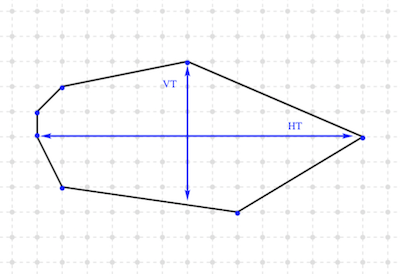
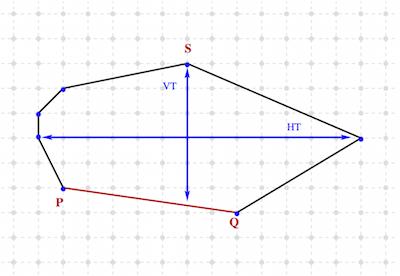
access to antipodal leaning points with test

diff --git a/tests/geometry/curves/testAlphaThickSegmentComputer.cpp b/tests/geometry/curves/testAlphaThickSegmentComputer.cpp
@@ -131,14 +131,35 @@ bool testAlphaThickSegmentConvexHullAndBox()
     " ( should be " << *(aContour.begin())<<  ")" << std::endl;
   trace.info() << "Second extremity point: " << anAlphaThickSegmentComputer.getExtremityPoints().second << 
     " ( should be (80, 18) )" << std::endl;
-
+  
   res = anAlphaThickSegmentComputer.getExtremityPoints().first == *(aContour.begin())&&
         anAlphaThickSegmentComputer.getExtremityPoints().second == Z2i::Point(80,18);
   nbok += res ? 1 : 0; 
   nb++;
   trace.info() << "(" << nbok << "/" << nb << ") " << std::endl;
   trace.endBlock();
+
+
+  trace.beginBlock("Testing access to anti podal points");
+  std::pair<std::pair<Z2i::Point, Z2i::Point>, 
+            Z2i::Point> pairAntipodal =  anAlphaThickSegmentComputer.getAntipodalLeaningPoints();
   
+  Z2i::Point p = pairAntipodal.first.first; 
+  Z2i::Point q = pairAntipodal.first.second; 
+  Z2i::Point s = pairAntipodal.second;   
+  aBoard.setPenColor(DGtal::Color::Red);
+  aBoard.drawLine(p[0], p[1], q[0], q[1]);
+  aBoard.fillCircle(s[0], s[1], 0.2);
+  aBoard.saveEPS("testAlphaThickSegmentComputer_ConvexhullAntipodal.eps"); 
+    
+  trace.info() << "Antipodal pair: p " << p << ", q:" << q << ", s: "<< s << std::endl; 
+  trace.info() << "Should be  " << Z2i::Point(78,16) << " " << Z2i::Point(79,6) << Z2i::Point(83,13) <<std::endl;
+
+  res = p==Z2i::Point(78,16) && q==Z2i::Point(79,6) && s == Z2i::Point(83,13);
+  nbok += res ? 1 : 0; 
+  nb++;
+  trace.info() << "(" << nbok << "/" << nb << ") " << std::endl;
+  trace.endBlock();
   return nbok == nb;
 }
 
@@ -151,7 +172,6 @@ bool testAlphaThickSegmentComputerFloatingPointContour()
 {
   unsigned int nbok = 0;
   unsigned int nb = 0;
-  
   Board2D aBoard;
   typedef  AlphaThickSegmentComputer< Z2i::RealPoint> AlphaThickSegmentComputer2D;
   typedef  AlphaThickSegmentComputer< Z2i::RealPoint>::Primitive Primitive;

diff --git a/src/DGtal/geometry/curves/AlphaThickSegmentComputer.h b/src/DGtal/geometry/curves/AlphaThickSegmentComputer.h
@@ -403,8 +403,7 @@ public:
    */
   bool isValid() const;
   
-  
-
+ 
   /**
    * Get the extremity points of the segment. These points are not
    * necessary the last point of the segment.
@@ -412,8 +411,19 @@ public:
    **/
   std::pair<InputPoint, InputPoint>  getExtremityPoints() const;
   
-  
 
+  /**
+   * @return the antipodal leaning points of the segment (given in the
+   * convexhull). The result is given as a pair for which the first
+   * element is the pair containing the edge antipodal points and the
+   * second element is the vertex of the antipodal pair (see section \ref
+   * moduleAlphaThickSegmentRecoIntro for an illustration of such an
+   * antipodal pair).
+   **/
+  std::pair<std::pair<InputPoint, InputPoint>, InputPoint>
+  getAntipodalLeaningPoints() const;
+  
+  
   /**
    * Computes the paralell strip params from the current state of the segment.
    * @param[out] mu the minimal value of N.X (with N is the normal vector of the segment).
